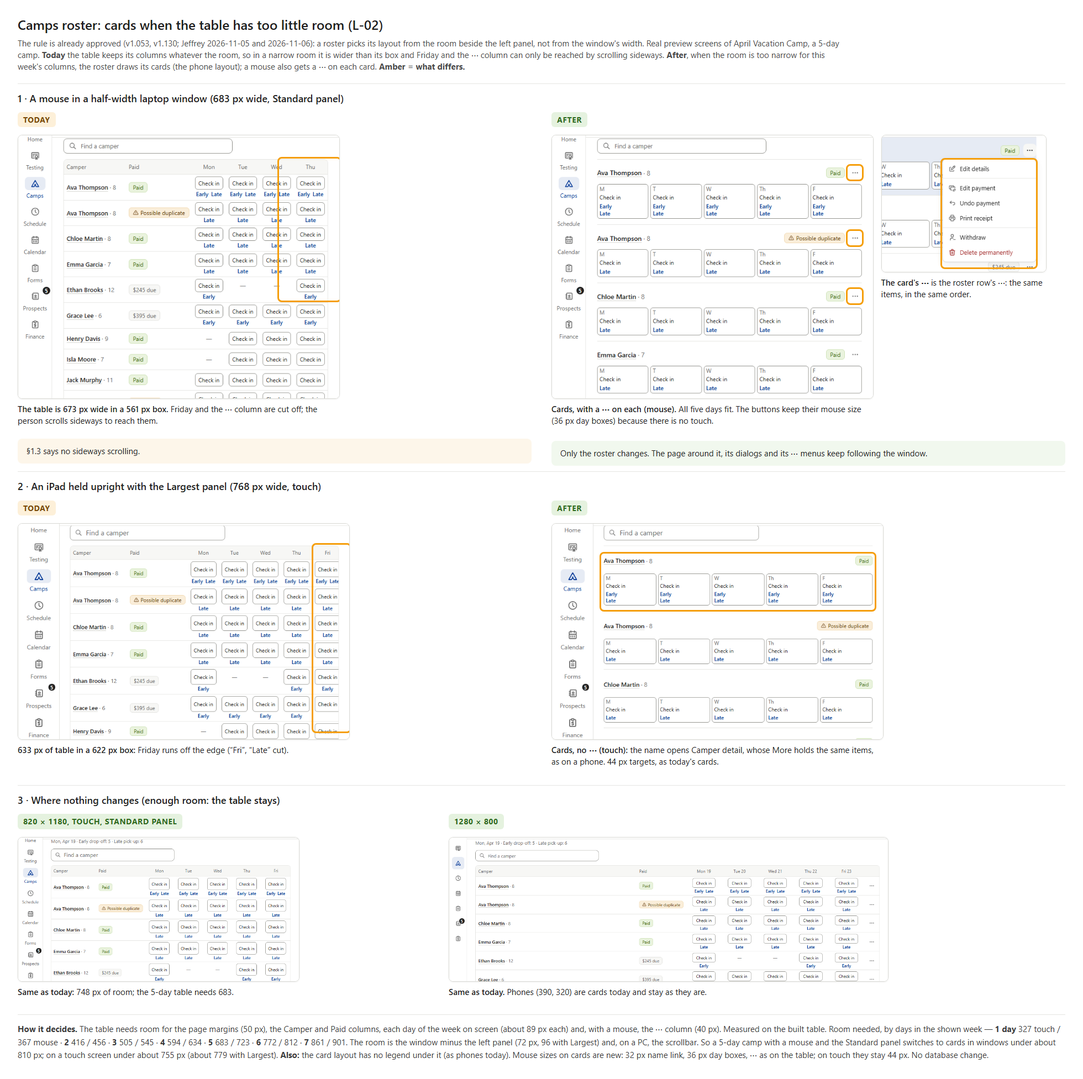
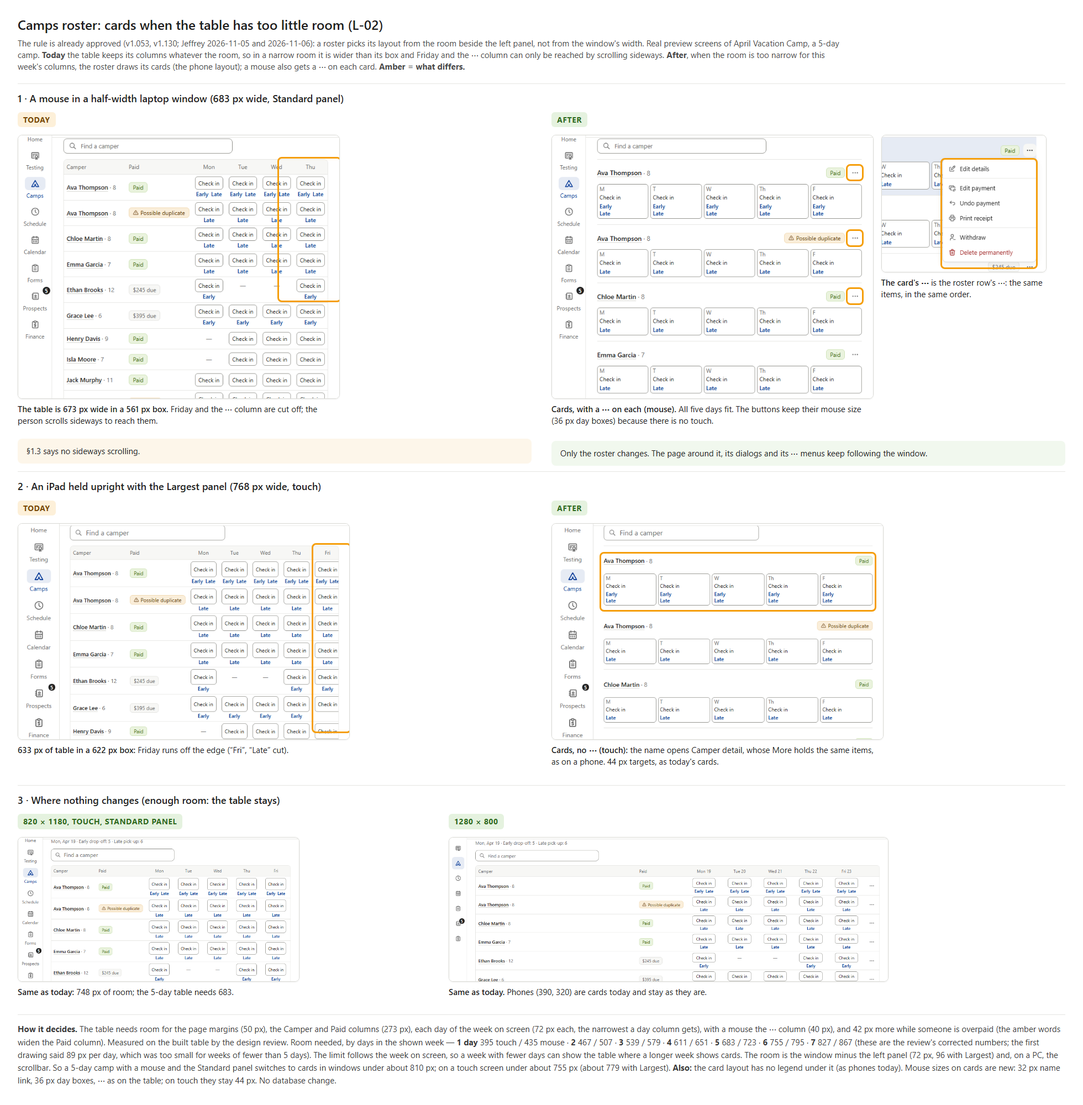
Camps L-02: the roster draws its cards when the room beside the panel is too narrow for the week's table (v0.747); arrow keys fixed on the roster area

Changed region(s): [[0.0, 0.0, 0.7781, 0.6871], [0.498, 0.0937, 0.9648, 0.7184], [0.0, 0.7184, 0.9959, 0.9995]]

diff --git a/src/screens/camps/CampRoster.jsx b/src/screens/camps/CampRoster.jsx
@@ -48,7 +48,12 @@
 // the week switch ("Week 1 · Jul 6–10 | Week 2 · Jul 13–17"; each week shows only its own days,
 // Paid and the cards stay whole-camp), the roster, then "Removed".
 // Phones: one card per child — name + Paid on top, the week's day buttons underneath (today
-// outlined), 44px targets. The page (CampPage.jsx) does every write; this file only draws.
+// outlined), 44px targets. The same cards are drawn on a bigger screen when the ROOM beside the left
+// panel is too narrow for the table's columns (rulebook v0.747, picture 24; v1.053 / v1.130, L-02):
+// the shared hook `usePageRoomBelow` (src/lib/pageRoom.js) is asked with `rosterRoomNeeded` (the room
+// this week's columns need — campRules.js). With a mouse such a card also has the row's ⋯, and its
+// buttons keep mouse size (44px only on touch). The page (CampPage.jsx) does every write; this file
+// only draws.
 // Live-test fixes (2026-10-21): the grid always spans the full width, even for a 1-day camp (the
 // Camper column takes the spare room); a camp with nobody signed up still shows the grid (headers,
 // week switch, legend) with "No campers yet…" as one row inside it, so a closed or past camp
@@ -72,8 +77,9 @@ import CountCards from '../../components/CountCards.jsx';
 // The shared Mark paid box (design review C2, rulebook v0.735) under the "$X due" / "Owes $X" tag
 import MarkPaidBox from '../../components/MarkPaidBox.jsx';
 import { useRowArrowNav } from '../../lib/useRowArrowNav.js';
+import { usePageRoomBelow } from '../../lib/pageRoom.js';
 import {
-  campCardCounts, dayExtraCounts, dayExtrasFor, everyDayExtras, extraDayWord, extraShortName, matchesCardFilter, missingExtraOnDay, paidTagParts, payTag, payingByChoiceWhere,
+  rosterRoomNeeded, overpaidCents, campCardCounts, dayExtraCounts, dayExtrasFor, everyDayExtras, extraDayWord, extraShortName, matchesCardFilter, missingExtraOnDay, paidTagParts, payTag, payingByChoiceWhere,
 } from '../../lib/camps/campRules.js';
 import ChoiceGroup from '../../components/ChoiceGroup.jsx';
 import { formatMoney } from '../../lib/money.js';
@@ -319,6 +325,34 @@ export default function CampRoster({
 
   const week = weeks[weekIndex] ?? weeks[0] ?? { days: [] };
   const shownDays = week.days;
+  // The layout follows the room beside the panel, not the window (v1.053 / v1.130): when the table's
+  // columns for this week don't fit, the roster draws its cards (the phone layout) — with a ⋯ on each
+  // card when there's a mouse. Only the roster follows the room; the rest of the page follows the window.
+  // The table needs more room while someone is overpaid (the amber words widen the Paid column), and
+  // for the week on screen, so a week with fewer days can show the table where a longer one shows cards.
+  const anyOverpaid = !detailsHidden && active.some((r) => overpaidCents(r) > 0);
+  const narrowRoom = usePageRoomBelow(rosterRoomNeeded(shownDays.length, showMore, anyOverpaid));
+  const stacked = isPhone || narrowRoom;
+  // The layout flipped (a window turned, Panel size changed, another week): the tag a Mark paid box
+  // hangs from, or the ⋯ a menu hangs from, is a different element now — close them (never on the
+  // first drawing).
+  const stackedBefore = useRef(stacked);
+  useEffect(() => {
+    if (stackedBefore.current === stacked) return;
+    stackedBefore.current = stacked;
+    // The row whose box or menu was open: focus goes to its ⋯ (else its name) in the new layout,
+    // never to the page body.
+    const openRowId = popover?.rowId ?? menuFor;
+    setPopover(null);
+    handlers.onLayoutChange?.();
+    if (openRowId) {
+      window.requestAnimationFrame(() => {
+        (document.querySelector(`[data-camper-more="${openRowId}"]`) ?? document.querySelector(`[data-nav-row="${openRowId}"]`))?.focus();
+      });
+    }
+    // (only when the layout changes)
+    // eslint-disable-next-line react-hooks/exhaustive-deps
+  }, [stacked]);
   const todayDay = days.find((d) => d.day === today) ?? null;
   // Today's notes under the names only while the shown week has today in it (review 12).
   const noteDay = todayDay && shownDays.some((d) => d.dayId === todayDay.dayId) ? todayDay : null;
@@ -521,16 +555,16 @@ export default function CampRoster({
     ) : null;
 
   let list;
-  if (isPhone) {
-    // ----- Phone: one card per child -----
+  if (stacked) {
+    // ----- Phone, or a roster with too little room for the grid: one card per child -----
     list = (
-      <div className="cp-rcards" aria-label={T.ROSTER_LABEL} role="list" {...nav.containerProps}>
+      <div className="cp-rcards" aria-label={T.ROSTER_LABEL} role="list">
         {rows.map((row) => {
           const note = todayNote(row, noteDay, extras, days);
           return (
-            <div key={row.id} className="cp-rcard" role="listitem">
+            <div key={row.id} className={`cp-rcard${menuFor === row.id ? ' is-selected' : ''}`} role="listitem" {...nav.groupProps(row.id)}>
               <div className="cp-rcard-top">
-                <span className="cp-rcard-name" {...nav.groupProps(row.id)}>
+                <span className="cp-rcard-name">
                   {nameButton(row)}
                   <span className="cp-age-text"> · {row.age}</span>
                   {notSavedId === row.id && (
@@ -540,8 +574,12 @@ export default function CampRoster({
                     </span>
                   )}
                 </span>
-                {/* Hidden: no money tag; a possible duplicate keeps its tag here (picture 01). */}
-                {detailsHidden ? duplicateTag(row) : <CamperTag row={row} onReview={handlers.onReview} onPay={onPay} busy={busy} amounts />}
+                {/* Hidden: no money tag; a possible duplicate keeps its tag here (picture 01). With a
+                    mouse the card also has the row's ⋯ (touch: the same items are in Camper detail). */}
+                <span className="cp-rcard-end">
+                  {detailsHidden ? duplicateTag(row) : <CamperTag row={row} onReview={handlers.onReview} onPay={onPay} busy={busy} amounts />}
+                  {more(row)}
+                </span>
               </div>
               {note && <span className="cp-rnote">{note}</span>}
               <div className="cp-rdays">{shownDays.map((d) => cell(row, d, true))}</div>
@@ -583,7 +621,7 @@ export default function CampRoster({
               )}
             </tr>
           </thead>
-          <tbody {...nav.containerProps}>
+          <tbody>
             {rows.map((row) => {
               const note = todayNote(row, noteDay, extras, days);
               const reserveWords = rowHasWords(row);
@@ -640,7 +678,7 @@ export default function CampRoster({
   // ----- Removed (withdrawn / duplicate copy): not in the counts -----
   const removedGroup =
     removedRows.length > 0 ? (
-      <div className="cp-removed" {...nav.containerProps}>
+      <div className="cp-removed">
         <div className="ev-removed-head">
           <span>
             <button type="button" className="ev-removed-toggle" aria-expanded={removedOpen ? 'true' : 'false'} onClick={onToggleRemoved}>
@@ -676,7 +714,10 @@ export default function CampRoster({
   // "Updated …" with the count cards and their gray count line (and, while a card is pressed, the
   // cards' own "Showing … only · Show all"), then Find a camper, the week switch and the roster.
   return (
-    <div className="cp-roster-area">
+    // The arrow-key container is the whole roster area, ONCE (the hook keeps one ref: with one per
+    // list — cards or table, and the Removed group — the last list mounted won and the arrows did
+    // nothing after a page load). Keys from outside a row (Find a camper, the cards) are ignored.
+    <div className="cp-roster-area" {...nav.containerProps}>
       {/* The shared possible-duplicate box (rulebook v0.729 / v1.102): Camps' count line and one
           "<name> is signed up twice" line per pair, each with Review (opens the compare). */}
       <DuplicateBox
@@ -729,7 +770,7 @@ export default function CampRoster({
       )}
       {removedGroup}
       {/* The legend explains the roster's boxes, so it goes when the search left no roster. */}
-      {!isPhone && active.length > 0 && !searchFoundNoActive && <RosterLegend touch={isTouch} extras={extras} />}
+      {!stacked && active.length > 0 && !searchFoundNoActive && <RosterLegend touch={isTouch} extras={extras} />}
       {popover && popoverRow && !detailsHidden && (
         // The shared box (v0.735): the amount owed now, shown and never typed; Paid by preset to
         // Paying by; the hint says where that choice was made — "on the form", or "at the desk"

diff --git a/docs/Camps/Design review mockups/24-roster-room.html b/docs/Camps/Design review mockups/24-roster-room.html
@@ -107,5 +107,5 @@
   
 </div>
 </div>
-<div class="foot"><b>How it decides.</b> The table needs room for the page margins (50 px), the Camper and Paid columns, each day of the week on screen (about 89 px each) and, with a mouse, the ⋯ column (40 px). Measured on the built table. Room needed, by days in the shown week — <b>1 day</b> 327 touch / 367 mouse · <b>2</b> 416 / 456 · <b>3</b> 505 / 545 · <b>4</b> 594 / 634 · <b>5</b> 683 / 723 · <b>6</b> 772 / 812 · <b>7</b> 861 / 901. The room is the window minus the left panel (72 px, 96 with Largest) and, on a PC, the scrollbar. So a 5-day camp with a mouse and the Standard panel switches to cards in windows under about 810 px; on a touch screen under about 755 px (about 779 with Largest). <b>Also:</b> the card layout has no legend under it (as phones today). Mouse sizes on cards are new: 32 px name link, 36 px day boxes, ⋯ as on the table; on touch they stay 44 px. No database change.</div>
+<div class="foot"><b>How it decides.</b> The table needs room for the page margins (50 px), the Camper and Paid columns (273 px), each day of the week on screen (72 px each, the narrowest a day column gets), with a mouse the ⋯ column (40 px), and 42 px more while someone is overpaid (the amber words widen the Paid column). Measured on the built table by the design review. Room needed, by days in the shown week — <b>1 day</b> 395 touch / 435 mouse · <b>2</b> 467 / 507 · <b>3</b> 539 / 579 · <b>4</b> 611 / 651 · <b>5</b> 683 / 723 · <b>6</b> 755 / 795 · <b>7</b> 827 / 867 (these are the review's corrected numbers; the first drawing said 89 px per day, which was too small for weeks of fewer than 5 days). The limit follows the week on screen, so a week with fewer days can show the table where a longer week shows cards. The room is the window minus the left panel (72 px, 96 with Largest) and, on a PC, the scrollbar. So a 5-day camp with a mouse and the Standard panel switches to cards in windows under about 810 px; on a touch screen under about 755 px (about 779 with Largest). <b>Also:</b> the card layout has no legend under it (as phones today). Mouse sizes on cards are new: 32 px name link, 36 px day boxes, ⋯ as on the table; on touch they stay 44 px. No database change.</div>
 </body></html>

diff --git a/src/lib/camps/campRules.js b/src/lib/camps/campRules.js
@@ -657,6 +657,23 @@ export function paidTagParts(row) {
   return { paidCents: named ? (Number.isInteger(row?.paidCents) ? row.paidCents : 0) : null, overpaidCents: over };
 }
 
+// ----- The roster's layout from the room beside the panel (rulebook v1.053, v1.130; L-02) -----
+// The roster's table needs room for its columns: the page's side margins (50 px), the Camper and Paid
+// columns (273 px, with the widest ordinary tag, "Possible duplicate"), one column per day of the
+// shown week (72 px each: a day column can't get narrower), and — with a mouse — the ⋯ column
+// (40 px). While someone is overpaid, the amber "Paid $315 ⚠ $23 overpaid" widens the Paid column by
+// another 42 px (27 px measured, 14 more for a four-digit amount). Measured on the built table by the
+// design review (a 5-day camp: 683 px of room with touch, 723 with a mouse; 7 days about 867 with a
+// mouse). When the page area beside the left panel is narrower than that, the roster draws its cards
+// instead (the phone layout), whatever the window's width. The shared hook `usePageRoomBelow(px)`
+// (src/lib/pageRoom.js) answers; this says the px for the shown week.
+export const ROSTER_ROOM = { margins: 50, fixed: 273, perDay: 72, more: 40, overpaid: 42 };
+export function rosterRoomNeeded(dayCount, withMore, anyOverpaid = false) {
+  const days = Number.isInteger(dayCount) && dayCount > 0 ? dayCount : 1;
+  return ROSTER_ROOM.margins + ROSTER_ROOM.fixed + ROSTER_ROOM.perDay * days
+    + (withMore ? ROSTER_ROOM.more : 0) + (anyOverpaid ? ROSTER_ROOM.overpaid : 0);
+}
+
 // The refund Undo refund reverses: the NEWEST refund row that stands (no reversal points at it),
 // from Camper detail's payments (camelCase: id, kind, reversesPaymentId, recordedAt). null = none.
 export function newestStandingRefund(payments) {

diff --git a/src/styles/camps.css b/src/styles/camps.css
@@ -911,11 +911,27 @@ button.cp-dc:focus-visible {
   overflow-wrap: anywhere;
 }
 
-.cp-rcard-name .cp-name-link {
-  min-height: var(--tap-size);
+/* The tag and, with a mouse, the card's ⋯ at the card's right end */
+.cp-rcard-end {
+  display: flex;
+  flex-shrink: 0;
+  align-items: center;
+  gap: var(--space-8);
 }
 
-/* The day buttons of the week under the name: equal columns, 44px tall */
+/* The card whose ⋯ menu is open: the tint reaches 8px past the text on both sides, like a table row */
+.cp-rcard.is-selected {
+  background: var(--color-blue-tint);
+  box-shadow: -8px 0 0 var(--color-blue-tint), 8px 0 0 var(--color-blue-tint);
+}
+
+/* Cards are drawn for a phone or for a roster with too little room (L-02, v1.053): their buttons
+   follow the kind of screen, not the layout — mouse size here, 44px on touch (below). */
+.cp-rcard-name .cp-name-link {
+  min-height: 32px;
+}
+
+/* The day buttons of the week under the name: equal columns, 36px tall with a mouse, 44px on touch */
 .cp-rdays {
   display: grid;
   grid-auto-columns: minmax(0, 1fr);
@@ -930,7 +946,7 @@ button.cp-dc:focus-visible {
   justify-content: center;
   min-width: 0;
   height: auto;
-  min-height: var(--tap-size);
+  min-height: 36px;
   padding: 2px var(--space-4);
   overflow: hidden;
 }
@@ -1056,6 +1072,12 @@ button.cp-dc:focus-visible {
 
   .cp-cal-day {
     height: var(--tap-size);
+  }
+
+  /* The roster's cards on a touch screen: 44px targets (with a mouse they are smaller, above) */
+  .cp-rcard-name .cp-name-link,
+  .cp-rdays .cp-dc {
+    min-height: var(--tap-size);
   }
 
   .cp-daychip {

diff --git a/src/screens/camps/CampPage.jsx b/src/screens/camps/CampPage.jsx
@@ -1597,6 +1597,8 @@ export default function CampPage({
         handlers={{
           onOpen: (row, el) => openCamper(row, el),
           onMore: (row, anchor) => openMenu('camper', row, anchor),
+          // The roster flipped between table and cards (v0.747): the ⋯ a menu hangs from is gone.
+          onLayoutChange: () => setMenu(null),
           onMarkPaid: (row, method) => doMarkPaid(row, method),
           onReview: (row, anchor) => openCompareFor(row, anchor),
           onReviewPair: (pair, opener) => openDialog({ type: 'compare', pair, saving: false, failed: false, opener }),

diff --git a/docs/Camps/TKD-Camps-Status.md b/docs/Camps/TKD-Camps-Status.md
@@ -173,6 +173,7 @@ Fix list: `docs/Design Review/Rolling check/Pass 1/Fix-Camps.md` (sent by Main 2
 - **Fill in (walk-in families at the desk; changes v0.232):** Jeffrey chose "A" (Fill in, copying New students) and "OK the plan" (`docs/Camps/TKD-Camps-FillIn-Plan.md`). Migration **0043** reserved by Main. Picture 22x: "C" → rulebook v0.740 (staff and admins while family sign-up is open; admins only while it isn't; nobody after the last day). Picture 23: "OK picture 23" → rulebook v0.741. Contract `docs/Camps/CONTRACT-0043.md`. **Built 2026-11-05:** migration `0043_camps_fill_in.sql` (+ tests, fingerprints, pre-apply check, SETUP "## Migration 0043", `step0043`; one `drop function` — the core gains `p_source` / `p_entered_by`; no data removed) and the app (`camps/FillInDialog.jsx`, `familyFormCss.js`, `campsArgs.js`; family-page parts StepDetails / StepCheck / FamilyFields gain `inDialog` / `noAutofill` props whose defaults keep the family page unchanged). Reviews: security (safe to paste; PGlite `--only-step0043` 79/79), code and design (four sizes; no must-fix; fixes done: same submission id after `invalid`, focus on Close after Sent, desk-only line under the title, step 2 focus, Fill in another re-reads the camp). Full PGlite run 2301 passed / 5 failed — the 5 are Black Belt speed limits that fail without 0043 too. No shared files touched. **Waiting on Jeffrey:** paste 0043 (SETUP 0043a–e), then the after-apply checks; the app push waits until 0043 is live. Hide private details switched on while the Fill in box is open: **settled 2026-11-06 — Jeffrey: "answer to question is A"** (close it) → rulebook v0.746, built and reviewed (see "Two small follow-ups" below). Known, accepted: no per-staff limit on desk sign-ups (as Forms' `forms_staff_submit`). **0039 (Record refund) must be written on top of 0043's `camp_camper_detail` and core.** **0043 APPLIED 2026-11-06** (Jeffrey pasted it: "pass"; pre-check before was 1 / 0 / 3 / 3 / 0 / 0 / 0 with 0 sign-ups, after 0 / 1 / 3 / 0 / 3 / 2 / 2; all 9 rows of `0043_fingerprints.sql` match the tested copy; security advisor: nothing new, only the usual INFO "authenticated can run a security definer function" for camp_staff_form / camp_staff_signup / camp_camper_detail, nothing for anon). **0043_tests.sql passed on production 2026-11-06** (Jeffrey: "pass"; run with Main Admin and the shared Staff account, from a filled-in copy outside git). **Merged and LIVE 2026-11-06** (main 48fb81e, pushed on Jeffrey's words "merge camps and push"; Cloudflare success; camps fast-forwarded to it).- **Step 2, above the roster** (R3-10, R3-02, R5-04, R3-09): Jeffrey "go ahead" 2026-11-06. Picture 21 (`Design review mockups/21-roster-top.png`, mock `mock-x6-roster-top.js`) sent 2026-11-06: new order, To collect 6 · $1,355 → 5 · $1,040 without the possible duplicate, "includes $140 from removed campers", Find a camper's shared ✕ and 'No campers match "zz". · Clear search'. Decision asked: where "1 possible duplicate not counted" goes — A on the To collect card (recommended; no shared change), B a second gray line under the cards (shared CountCards change), C joined to the count line. **Jeffrey: "A"** → rulebook **v0.742** (also: "(See v0.742 …)" on v0.737; §2.4's `ti-calendar-event` row names Camps' Coming card). **Built and reviewed 2026-11-06:** `campRules.js` (`countsToCollect` leaves Possible duplicate rows out of To collect's count, amount and filter list; `campCardCounts` returns `duplicatesNotCounted` — only duplicates that still owe — and `removedPaidCents`), `CampRoster.jsx` (new order; To collect note second line; Payments recorded "includes $X from removed campers"; shared ✕ IconButton in Find a camper, browser ✕ hidden; 'No campers match “zz”. · Clear search' in the roster's place; both clear controls put focus back in the box), `camps/text.js`, `camps.css`, `checks.mjs` (55 groups). Design review (four sizes, WCAG 2.2, staff role, real mouse and keys in the built-in browser) and code review: no high. Medium (both reviewers) fixed: a search that finds only a removed camper no longer says "No campers match" above that camper — it shows only the Removed group, and the legend goes with the roster. Accepted lows: with a card pressed, search words win even if the name exists but the card hides it (v0.742 / v1.050 say so; pass 2's card no-match line may revisit it); the no-match line isn't a live region (as today's row and the shared Showing line); if both rows of a pair are marked possible and both owe, the card counts 2. Both builds, checks.mjs and functions tests (174) pass. No shared files touched. Committed on `camps`, not pushed. **Merged and LIVE 2026-11-06** (main d985896, pushed on Jeffrey's words "Camps' step 2: merge and push"; Cloudflare success; merged back into camps 0bb2a38).
 - **Step 3, R1-05 Record refund:** picture 22 (`Design review mockups/22-record-refund.png`, mock `mock-x7-refund.js`) sent 2026-11-06; **Jeffrey: "ok as drawn"** → rulebook **v0.743** (and a "(See v0.743 …)" note on v1.039). Contract `docs/Camps/CONTRACT-0039.md`: 0039 widens the kind check, lets the guard reverse a refund, adds `camp_record_refund` / `camp_undo_refund` (admins), makes 0033's `camp_undo_payment` / `camp_edit_payment` answer `refund_stands` while a refund stands, and adds `refunded_cents` to the roster view; it does NOT replace `camp_camper_detail` or the core (detail already returns every payment row with its kind). **Built and reviewed 2026-11-06.** Database half committed as 19e727b: migration `0039_camps_record_refund.sql` (+ tests, fingerprints, pre-apply check, SETUP "## Migration 0039" 0039a–e, `step0039`): kind check widened (refund −$10,000…−1, cash or check only; reversal ±$10,000, not 0 — 0022's limits), the guard may reverse a refund and refuses any row that takes a camper's payments below $0 (`camp_payments_net_check`, Star's rule), `camp_record_refund` / `camp_undo_refund` (admins; undo at the refund's school, v1.040), 0033's Undo / Edit payment answer `refund_stands`, roster view gains `refunded_cents` (its section first, so the paste can't deadlock with a roster read). Security review: safe to paste (re-checked after its lows). PGlite: step0039 83/83, full run 2482 passed / 0 failed. Finance: its readers already put a camp refund in the Refunds group (counts, cash/check, snapshot, export), so Finance's R1-05 needs only its test and screen. App half: `RefundDialog.jsx` (Star's box), CampPage (open / save / toast Undo / Undo refund box / refund_stands; box values kept in the page's dialog state so a screen lock never loses them — also Edit payment and Change how they'll pay), CamperRowMenu, CamperDialog (refund line; a reversed refund reads like a reversed payment; touch hint says More), camperHistoryWords, campReceipt (minus line), campRules helpers, campsArgs / campsApi, mockCamps (the same rules as the SQL), text.js, camps.css, checks.mjs (61 groups). Words not in picture 22, marked "(not in the mockups)": "Enter an amount more than $0.", "Enter an amount in whole dollars, like 23." (whole dollars, as Edit payment and Star), "Enter the date refunded.", "Pick a day from [day] to today.", "The 2 payments ($350) stay in the history.", "$23 cash (reversed) · …", "Refund undone" toast, the touch hint "An admin records money handed back with More → Record refund.", staff's "Couldn't undo: this camper has a refund. Ask an admin.". Design review (four sizes, real keys) and code review: mediums fixed (screen lock kept the values; the partial-refund hint → question to Jeffrey), lows fixed (bars from another device's refund and from a toast's Undo are scrolled into view; focus to the ⋯, or the bar's × when the ⋯ would be off screen — this last change and the date words were checked by build and checks only, not clicked through again). Picture 22y (`22y-partial-refund.png`): **Jeffrey: "A"** → rulebook **v0.744**: after a partial refund the ⋯ / More shows Record refund and Undo refund (Record first) while money is still overpaid; the rest goes back as a second refund (built: `refundMenuItems`, CamperRowMenu, CampPage; checks). Code and design re-checks (1280, 390 touch): fine; fixed with it — a toast-Undo refusal bar is scrolled into view, focus goes to the bar's × when the ⋯ would be off screen, the refund amount is whole dollars, the date words, and Mark paid's focus step no longer takes focus after the toast's Undo was pressed. Left as is (optional): after the bar's × focus falls to the page; the second refund's box says "paid $270 · $10 overpaid" without naming the $5 refund that stands. **0039 APPLIED 2026-11-06** (Jeffrey pasted it: "success no rows returned"; pre-check before 3 / 5 / 0 / 0 / 0 / 0 — no camp payments on production yet — after 3 / 0 / 5 / 2 / 0 / 0; all 7 rows of `0039_fingerprints.sql` match the tested copy; security advisor: nothing new — the two new functions only in the usual "signed-in users can run a security definer function" list with the other 228 staff functions, nothing for anon). **0039_tests.sql passed on production 2026-11-06** (Jeffrey: "test pass"; run with Main Admin and the shared Staff account from a filled-in copy outside git). Finance's R1-05 is done on `finance` (a2c330e; Main 2026-11-06): no Finance migration and no app change — the live readers and the Refunds group already handle camp refunds; **`finance_camp_refunds_tests.sql` passed on production 2026-11-06** (Jeffrey: "PASS"; a filled-in copy with Main Admin's id, outside git; it ends with ROLLBACK). **Merged and LIVE 2026-11-06** (main 495f1b1, the merge of camps effd927, pushed on Jeffrey's words "merge camps and push"; Cloudflare success; on main both builds, the dist scan (0 hits), all 8 node checks and functions 174/174 passed; camps fast-forwarded to it). CLAUDE.md's 0039 row was corrected and marked live by Main (cd2de3b, b031338). Known: a removed (withdrawn) camper can't get Record refund (as Star; Restore first); a receipt with a Refund line still ends "Fees are non-refundable." (as Star). Push order: paste 0039 (read-only pre-check first) → Finance's R1-05 → merge and push the app (the new app reads `refunded_cents`, so it breaks every camp page on a database without 0039). Copied from Star: ⋯ / More item "Record refund" (admins, only while overpaid; after Undo payment, before Print receipt; ti-receipt-refund); Star's box with Camps' words (Refunded by Cash / Check, Amount up to the overpaid amount, Date refunded "Not before [day] (signed up) or after today.", Cancel · Save); "Can't be more than the $X overpaid."; toast "Refund recorded" + Undo; a refund line in Camper detail and History; Edit / Undo payment grayed "Undo the refund first." with Undo refund; Undo refund asks first (Keep refund / Undo refund); receipt minus line "Refund". The overpaid hint becomes "An admin records money handed back with ⋯ → Record refund." Noticed while drawing (not in R1-05): the roster's Paid cell shows only "Paid" for an overpaid camper (Star shows "Paid $160 ⚠ $20 overpaid"), so nothing on the roster says a refund is due (**done 2026-11-06 as v0.745** — Jeffrey: "copy what is already done … just fix it"; see "Two small follow-ups" below); and the preview's fake store logs re-added extras before removed ones in one save, which garbles that History line — check the real `camp_update_details` order before trusting it.
 - **Two small follow-ups, 2026-11-06 (v0.745, v0.746):** Jeffrey: "For the optional fix, copy what is already done. You dont need to show me just fix it. Then answer to question is A". **v0.745:** the roster's Paid tag copies Star's — "Paid $315" + amber "⚠ $23 overpaid" while a camper paid too much, "Paid $292" once a refund stands, plain "Paid" otherwise (`campRules.paidTagParts`, `CamperTag amounts` on the roster's two uses only; Camper detail's Status, Removed rows, the printed roster and the receipt stay "Paid"); Record refund's box now says "Afterwards the row reads “Paid $292”." (as Star's). **v0.746:** switching Hide private details on closes an open Fill in box at once, even during a Send, typed answers not kept (`closeNow`); a Send still saving finishes, and if it didn't save (or no answer came) the camp page shows one amber bar naming nobody — "A Fill in sign-up may not have been saved. If the family isn't on the roster, fill it in again." (not in the mockups; reloads the roster; scrolled into view). Reviews (design at four sizes + WCAG, code): no high; medium fixed (the silent failed Send after the close); lows fixed (focus fallback never found the button — the style tag shared its marker; stale comments; checks for the partial-refund case; bar revealed when scrolled). Re-checked by the design reviewer in the preview (two-tab flip via a real storage event). The switch can only flip mid-box from another tab or window, because the open box makes the top bar inert. Checks 63 groups, both builds and functions 174/174 pass. Accepted: the box's “Paid $292” ignores a smaller typed amount (as Star's, v0.745 says so). Noticed, not changed: Fill in's Sent screen says "before Mon, Apr 19" on Apr 21, a date already past (v0.741's words, for a camp already running). No shared file touched except the rulebook. Committed on `camps`, not pushed.
+- **L-02, the roster from the room beside the panel (pass 2, v1.053 / v1.130; rulebook v0.747):** Main 2026-11-06 (shared hook `usePageRoomBelow` on main, v1.130). Picture 24 (`Design review mockups/24-roster-room.png`) — **Jeffrey: "OK as drawn"**. **Built and reviewed 2026-11-06:** the roster draws its cards when the room is narrower than `campRules.rosterRoomNeeded(days of the shown week, mouse, anyOverpaid)` = 50 + 273 + 72 per day (+40 with a mouse, +42 while someone is overpaid); a 5-day camp 683 touch / 723 mouse; with a mouse each card has the row's ⋯, mouse-size buttons (32 / 36 px; 44 px on touch); legend follows the layout; an open Mark paid box or ⋯ menu closes when the layout flips, focus to that row's ⋯ / name (`CampPage onLayoutChange`). From the reviews (design at four sizes + thresholds, code): the first limit (188 + 89 per day, as drawn) was too small for weeks of fewer than 5 days and for an overpaid camper's wider tag — corrected to the numbers above (the picture's footer says so), rulebook row v0.747 updated; the selected card's tint reaches 8 px past the text; arrow keys now walk the whole card; **an older bug fixed on the way: `useRowArrowNav`'s one container ref sat on three lists (cards or table, and Removed), so after a page load the arrow keys did nothing in the table too — the container is now the roster area, once**. Accepted: the limit follows the shown week (a week with fewer days can show the table where a longer one shows cards) and a camper becoming overpaid can flip the layout (both said in v0.747); Hide private details keeps the Paid column's allowance (cards a little earlier than needed, safe); the Removed row's ⋯ sits ~9 px left of the cards' ⋯ (older). Header kept at main's 1.130. No database change, no shared file touched except the rulebook. Checks 64 groups, both builds and functions 174/174 pass. Committed on `camps`, not pushed.
 - **Later:** R2-05, R1-08, R3-13, R1-06, R1-07, R2-07 (stale words), R3-06 wait on Dashboard core; R5-03 on New students; Paying by "(chosen …)" on Star's R1-02; tag target size on Dashboard core's R4-09. R5-03 is unblocked: New students' R5-03 is live (main 1cad458; import `src/styles/icon-button-public.css` in `src/camp/main.jsx`; plain IconButton only, no unavailable look, no `.tib--outline`); picture first. C19 is unblocked: M12 (one shared offline bar, v1.123–v1.124) is on main 201b75f and merged into camps (c0d1456); picture first.
 - The camperHistoryWords.js comment to-do (above) is done in step 1: v1.122 (R4-07) is on main (7511656).
 
@@ -180,7 +181,7 @@ Fix list: `docs/Design Review/Rolling check/Pass 1/Fix-Camps.md` (sent by Main 2
 
 Fix list: `docs/Design Review/Rolling check/Pass 2/Fix-Camps.md` (sent by Main 2026-11-06; main 1751e82). In Jeffrey's order it comes after Fill in and pass 1 step 2. main merged into camps first (334934f; the rulebook header kept camps' 0.741; `run.mjs` = main's file + step0043, `--only-step0043` 79/79 again; both builds and checks.mjs pass).
 
-- **L-02 (roster from the room beside the panel, v1.053):** waits for Dashboard core's L-02 on main; mockup first (cards with a mouse get a ⋯). **On hold (Main, 2026-11-06):** Jeffrey is choosing how Dashboard core builds the shared part — A a container only where it's safe, or B no container, a shared hook measures the room and the rosters set a class (Dashboard core's pick) — because a page-area container makes in-page pop-ups open 72 px right and 48 px down of their cell on Chrome/Edge before 129 and Safari before 18.4. **Settled 2026-11-06:** Jeffrey chose B ("B: shared code", relayed by Main; rulebook v1.130 on `dashboard-core`, not merged yet): no container query; the shared hook `usePageRoomBelow(px)` says when the room beside the panel is below the roster's own limit, the roster then draws its phone layout and sets a class, and camps.css follows that class instead of the window's width; dialogs and ⋯ menus keep following the window. Build only after Dashboard core's part is merged into main (Main will say).
+- **L-02 (roster from the room beside the panel, v1.053):** waits for Dashboard core's L-02 on main; mockup first (cards with a mouse get a ⋯). **On hold (Main, 2026-11-06):** Jeffrey is choosing how Dashboard core builds the shared part — A a container only where it's safe, or B no container, a shared hook measures the room and the rosters set a class (Dashboard core's pick) — because a page-area container makes in-page pop-ups open 72 px right and 48 px down of their cell on Chrome/Edge before 129 and Safari before 18.4. **Settled 2026-11-06:** Jeffrey chose B ("B: shared code", relayed by Main; rulebook v1.130 on `dashboard-core`, not merged yet): no container query; the shared hook `usePageRoomBelow(px)` says when the room beside the panel is below the roster's own limit, the roster then draws its phone layout and sets a class, and camps.css follows that class instead of the window's width; dialogs and ⋯ menus keep following the window. **Built 2026-11-06** (shared part on main; picture 24 "OK as drawn"; rulebook v0.747) — see the L-02 entry above, under pass 1's list.
 - **M-03 (Print receipt on a removed camper who paid, v1.055):** plan + mockup (where it sits on a removed row, and for whom). When it starts, ask Jeffrey whether Camps follows Color Belt's v0.428 ("A: staff too", on `color-belt`, not merged yet; note from Main 2026-11-06) — recommend copying it. In Camps, staff already have a ⋯ on an ordinary removed row (Restore), but none on a "Duplicate copy" row (`CampRoster.jsx`: `(row.withdrawnReason !== 'duplicate_copy' || isAdmin) && more(row)`), so the question is about that row and about Print receipt for staff.
 - **C-05 (b) (each count card's own empty line, v1.055):** words drawn in a mockup (e.g. "Every camper has paid." for To collect, a line for Coming).
 - **Smaller:** nothing to build (M-02, C-04, C-06 (b) via pass 1 R2-07, L-07, C-07 (a)); L-03 after Dashboard core's; check C-06 (a)'s Mark paid words after Color Belt's fix.

diff --git a/docs/Dashboard Docs/TKD-Dashboard-Design-Guidelines.md b/docs/Dashboard Docs/TKD-Dashboard-Design-Guidelines.md
@@ -1012,6 +1012,7 @@ To be decided one at a time, each with visual options (rule P3):
 | A page's amber bar shows under the top bar, where the offline bar shows (decided v1.128; found in design review R2-05; changes where v1.004's bar sits; uses v1.123's place and v1.124) | Dashboard core, while drawing R2-05's question 3. Jeffrey, 2026-11-05: **"A, under the top bar"** (picture `docs/Dashboard Core/Questions/R205-bar-out-of-view.html`, `-1.png` and `-2.png`: Camps → Thanksgiving Camp in the preview, Zoe Park's Undo made to fail). **Before:** every page's amber bar sat at the top of its page and scrolled away with it, so on a long page scrolled down a new bar showed up above the screen. Zoe's failed Undo was 280px above the screen on a PC and 1,295px above it on a phone, and nothing on her row said so. A screen reader read it out; nobody looking at the screen saw it. **Now every page's amber bar shows just under the top bar, above the page**, in the same place as the one offline bar (v1.123) and Panel size's bar (v1.118). It's in view however far the page is scrolled, at every size, and the page stays still as it comes or goes (v1.124). **A bar inside an open box or side panel stays inside it** (as v0.966's bar inside Black Belt's detail). On a phone it takes 2 to 4 lines at the top (59px for "Undo didn't save. Check the connection, then retry."; 98px at 320 wide) until it's closed or fixed. Built once in the shared bar (Dashboard core); each section switches its page bars to it (a small change per page, through matching items). Not chosen: B, the page scrolling up to the bar (the person loses their place, and a tap aimed while it scrolls can land on something else); C, a small amber pointer at the top of the page that scrolls up to the bar when tapped (a new element, two places for one problem). |
 | Leaving the page while an Undo waits: the Undo still runs (decided v1.129; design review R2-05; adds to v1.125, v1.127 and v1.128) | Dashboard core, fix list R2-05, question 4. Jeffrey, 2026-11-05: **"A, still runs"** (picture `docs/Dashboard Core/Questions/R205-q4-leave-page.html` / `.png`: Zoe Park's Undo waits as "Undoing…" and Home is pressed in the rail). The toast is cleared on every page change, so before, nothing said what became of the Undo. **Nothing asks, and the Undo still runs** as soon as the save it waits for ends, as it would have on the page. **If it saves after the person left, nothing more is said:** the toast went with the page, and the page shows the change undone when they come back. **If it fails, the amber bar shows under the top bar of whatever page they're on (v1.128), naming the change and the section:** "Undo didn't save: “Zoe Park withdrawn” (Camps). Check the connection, then retry.", with the toast's own words in quotes and the section's name in parentheses. Its Retry runs the Undo again from there; × closes it. Not chosen: B, asking first in the leave box ("The Undo isn't done yet": Stay on this page / Leave anyway, which would drop the Undo). |
 | How a roster measures the room beside the panel: the shared code, not a container query (decided v1.130; changes how v1.053 is built and drops its browser check; found while planning L-02 of the rolling check's pass 2) | **Jeffrey, 2026-11-06: "B: shared code"** (picture `docs/Dashboard Core/Questions/L02-measure-room.png`). **Why:** v1.053's plan made the page area beside the panel a CSS container (a box whose width style rules can ask, instead of the window's). Browsers changed how a container works in Chrome and Edge 129 (September 2024) and Safari 18.4 (iPadOS 18.4, March 2025). Before that, a container also made every pop-up pinned to the screen (`position: fixed`) inside it measure from the container's corner instead of the window's. Shown on Star's Grading page at 820 × 1180 touch, with the old rule copied into today's Chrome: Noah Chen's grade list opened 72 px right of and 48 px below its cell (the panel's width and the top bar's height). Black Belt's grade list and measured-number box and the "kept" notes are drawn the same way; dialogs and ⋯ menus are drawn outside the page and don't move. **The rule:** no container query. Dashboard core's shared part measures the page area beside the panel (with a ResizeObserver: the browser tells the code when that box changes size) and tells a roster whether the room is narrower than that roster's own limit. When it is, the roster draws its phone layout and puts a class on it, and its styles follow the class, as Color Belt's and Star's phone rows already do with `is-phone` and Camps' cards with their own. Dialogs and ⋯ menus keep following the window. It works on every device the app already runs on, so the school's tablets need no check, and each roster's limit is written once. **Rejected:** A, the container query switched on only where a start-up test shows it's safe (an iPad before iPadOS 18.4 would keep today's overlapping roster, each roster would write its rules twice, and the school's iPads would need checking). Owner: Dashboard core (the shared part), then Color Belt, Star and Camps (their L-02 items use the class instead of `@container page`). |
+| Camps: the roster draws its cards when the table has too little room (decided v0.747; carries out v1.053 and v1.130 for Camps, L-02 of the rolling check's pass 2) | Jeffrey, 2026-11-06: "OK as drawn" on `docs/Camps/Design review mockups/24-roster-room.png`. The roster uses Dashboard core's shared `usePageRoomBelow(px)` (`src/lib/pageRoom.js`): when the room beside the left panel is narrower than what this week's table needs, it draws its cards (the phone layout) whatever the window's width; with enough room nothing changes (820 touch with the Standard panel and 1280 stay tables; phones stay cards). **The limit** is worked out for the week on screen (`campRules.rosterRoomNeeded`, measured on the built table by the design review): 50 px page margins + 273 px (Camper and Paid columns) + 72 px per day (a day column can't get narrower) + 40 px for the ⋯ column when there is a mouse, and 42 px more while a camper is overpaid (the amber words widen the Paid column) — a 5-day camp needs 683 px with touch and 723 px with a mouse (a mouse window under about 810 px with the Standard panel, a touch window under about 755 px). The limit follows the week on screen, so switching to a week with fewer days can show the table where a longer week shows cards, and the layout can change when a camper becomes overpaid; an open Mark paid box or ⋯ menu closes when the layout changes. **On the cards:** with a mouse each card gets the row's ⋯ (the same menu); on touch there is none (the name opens Camper detail, whose More holds the items, v0.715). Card buttons follow the kind of screen, not the layout (§2.5): 32 px name link and 36 px day boxes with a mouse, 44 px on touch. The legend under the roster follows the layout (none with cards, as on phones). Only the roster follows the room: the rest of the page, its dialogs and ⋯ menus keep following the window. No database change. |
 | Approved 2026-10-16 (v0.26) | (1) **No PIN set:** when the 45-minute lock (or Lock now) happens to someone without a PIN, there is no lock screen — they are signed out to the sign-in screen with an amber note "Signed out after 45 minutes idle. Set a PIN to unlock faster." (2) **This device:** clicking it expands a Worcester / Shrewsbury choice inside the account menu; one click saves and closes (reversible, so no Save step). Sets the device's default school only; the top switcher still offers Both. (3) **Borders:** control borders use `#8F8F8A` (3:1); dividers stay `#E5E5E2`. Items (1) and (3) are coded with the Set PIN build. |
 
 ## 11. Changelog
@@ -1605,3 +1606,4 @@ To be decided one at a time, each with visual options (rule P3):
 | 1.128 | 2026-11-05 | A page's amber bar shows just under the top bar, where the offline bar shows, so it's in view however far the page is scrolled; a bar inside an open box or side panel stays inside it (found in design review R2-05; option A) (10b). |
 | 1.129 | 2026-11-05 | Leaving the page while an Undo waits: nothing asks and the Undo still runs; if it fails, the bar under the top bar of the page you're on names the change and the section, with Retry (design review R2-05, question 4; option A) (10b). |
 | 1.130 | 2026-11-06 | How a roster measures the room beside the panel (v1.053): the shared code measures the page area and the roster sets a class, with no CSS container query, so an older iPad can't misplace a page's pop-up lists and no tablet check is needed (found while planning L-02; option B) (10b). |
+| 0.747 | 2026-11-06 | Camps: the roster draws its cards when the room beside the panel is too narrow for the week's table (limit worked out per week: 50 + 273 + 72 per day, + 40 with a mouse, + 42 while someone is overpaid), with a ⋯ on each card for a mouse; mouse-size buttons on cards (picture 24; L-02, v1.053, v1.130) (10b). |
